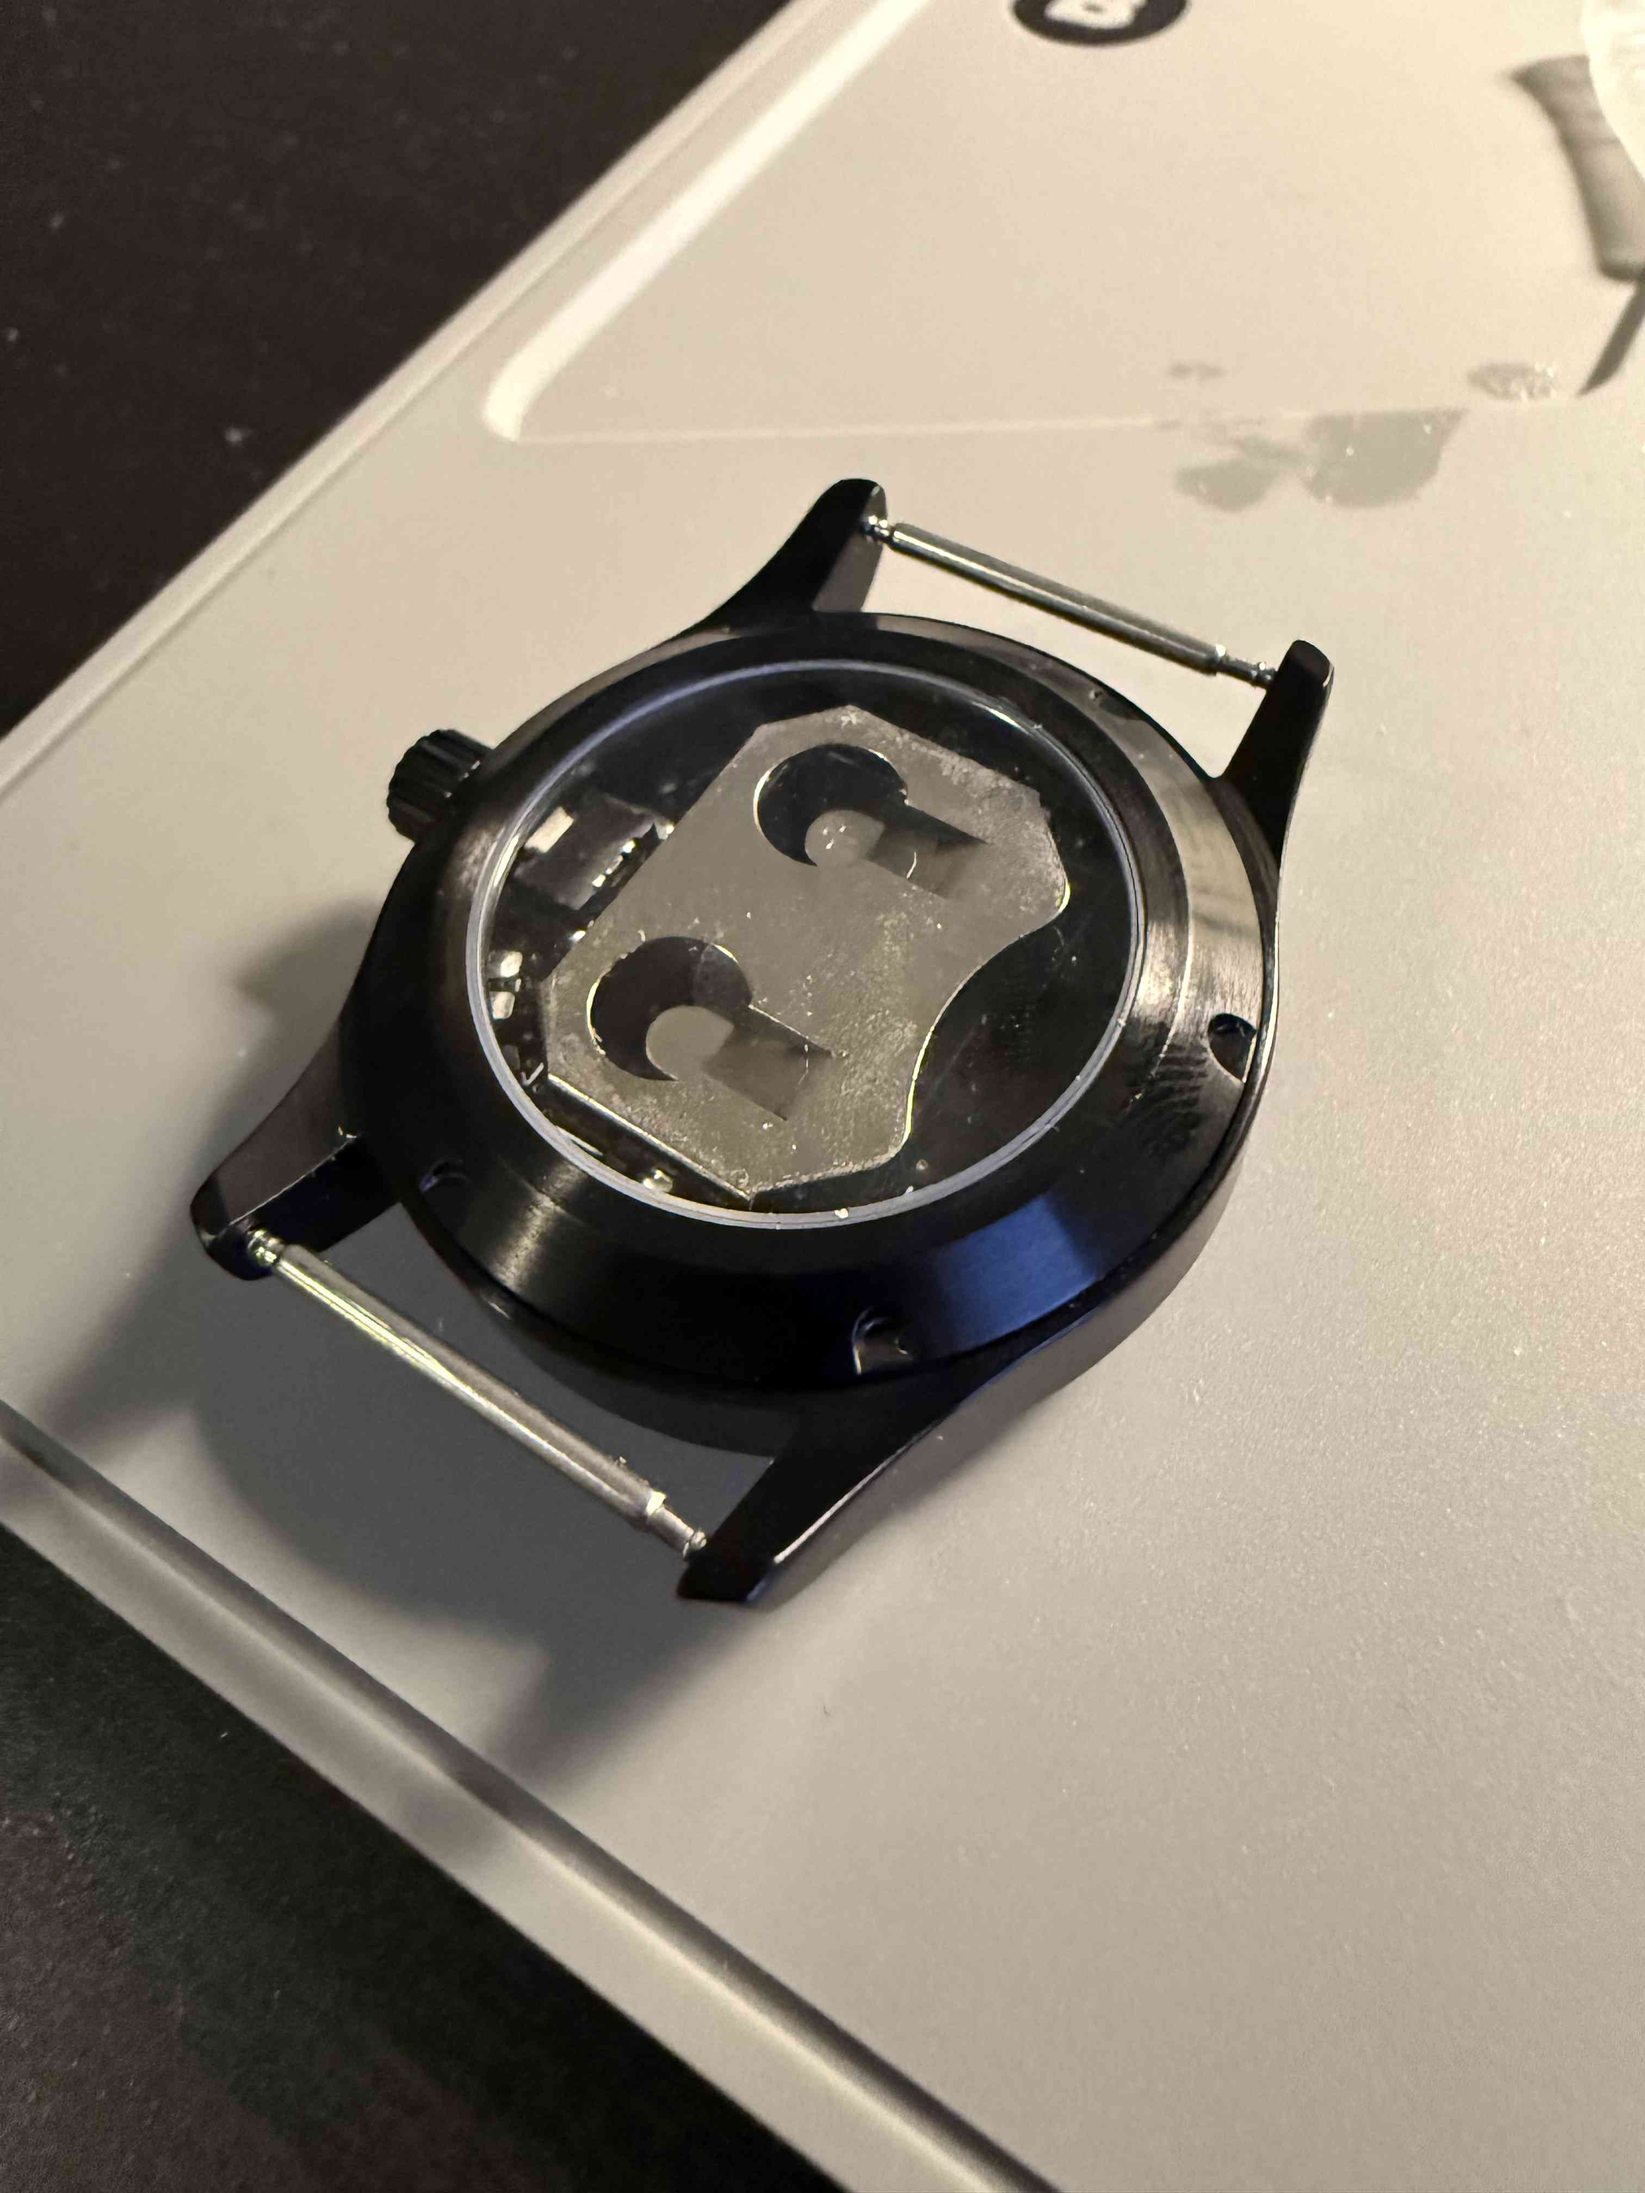
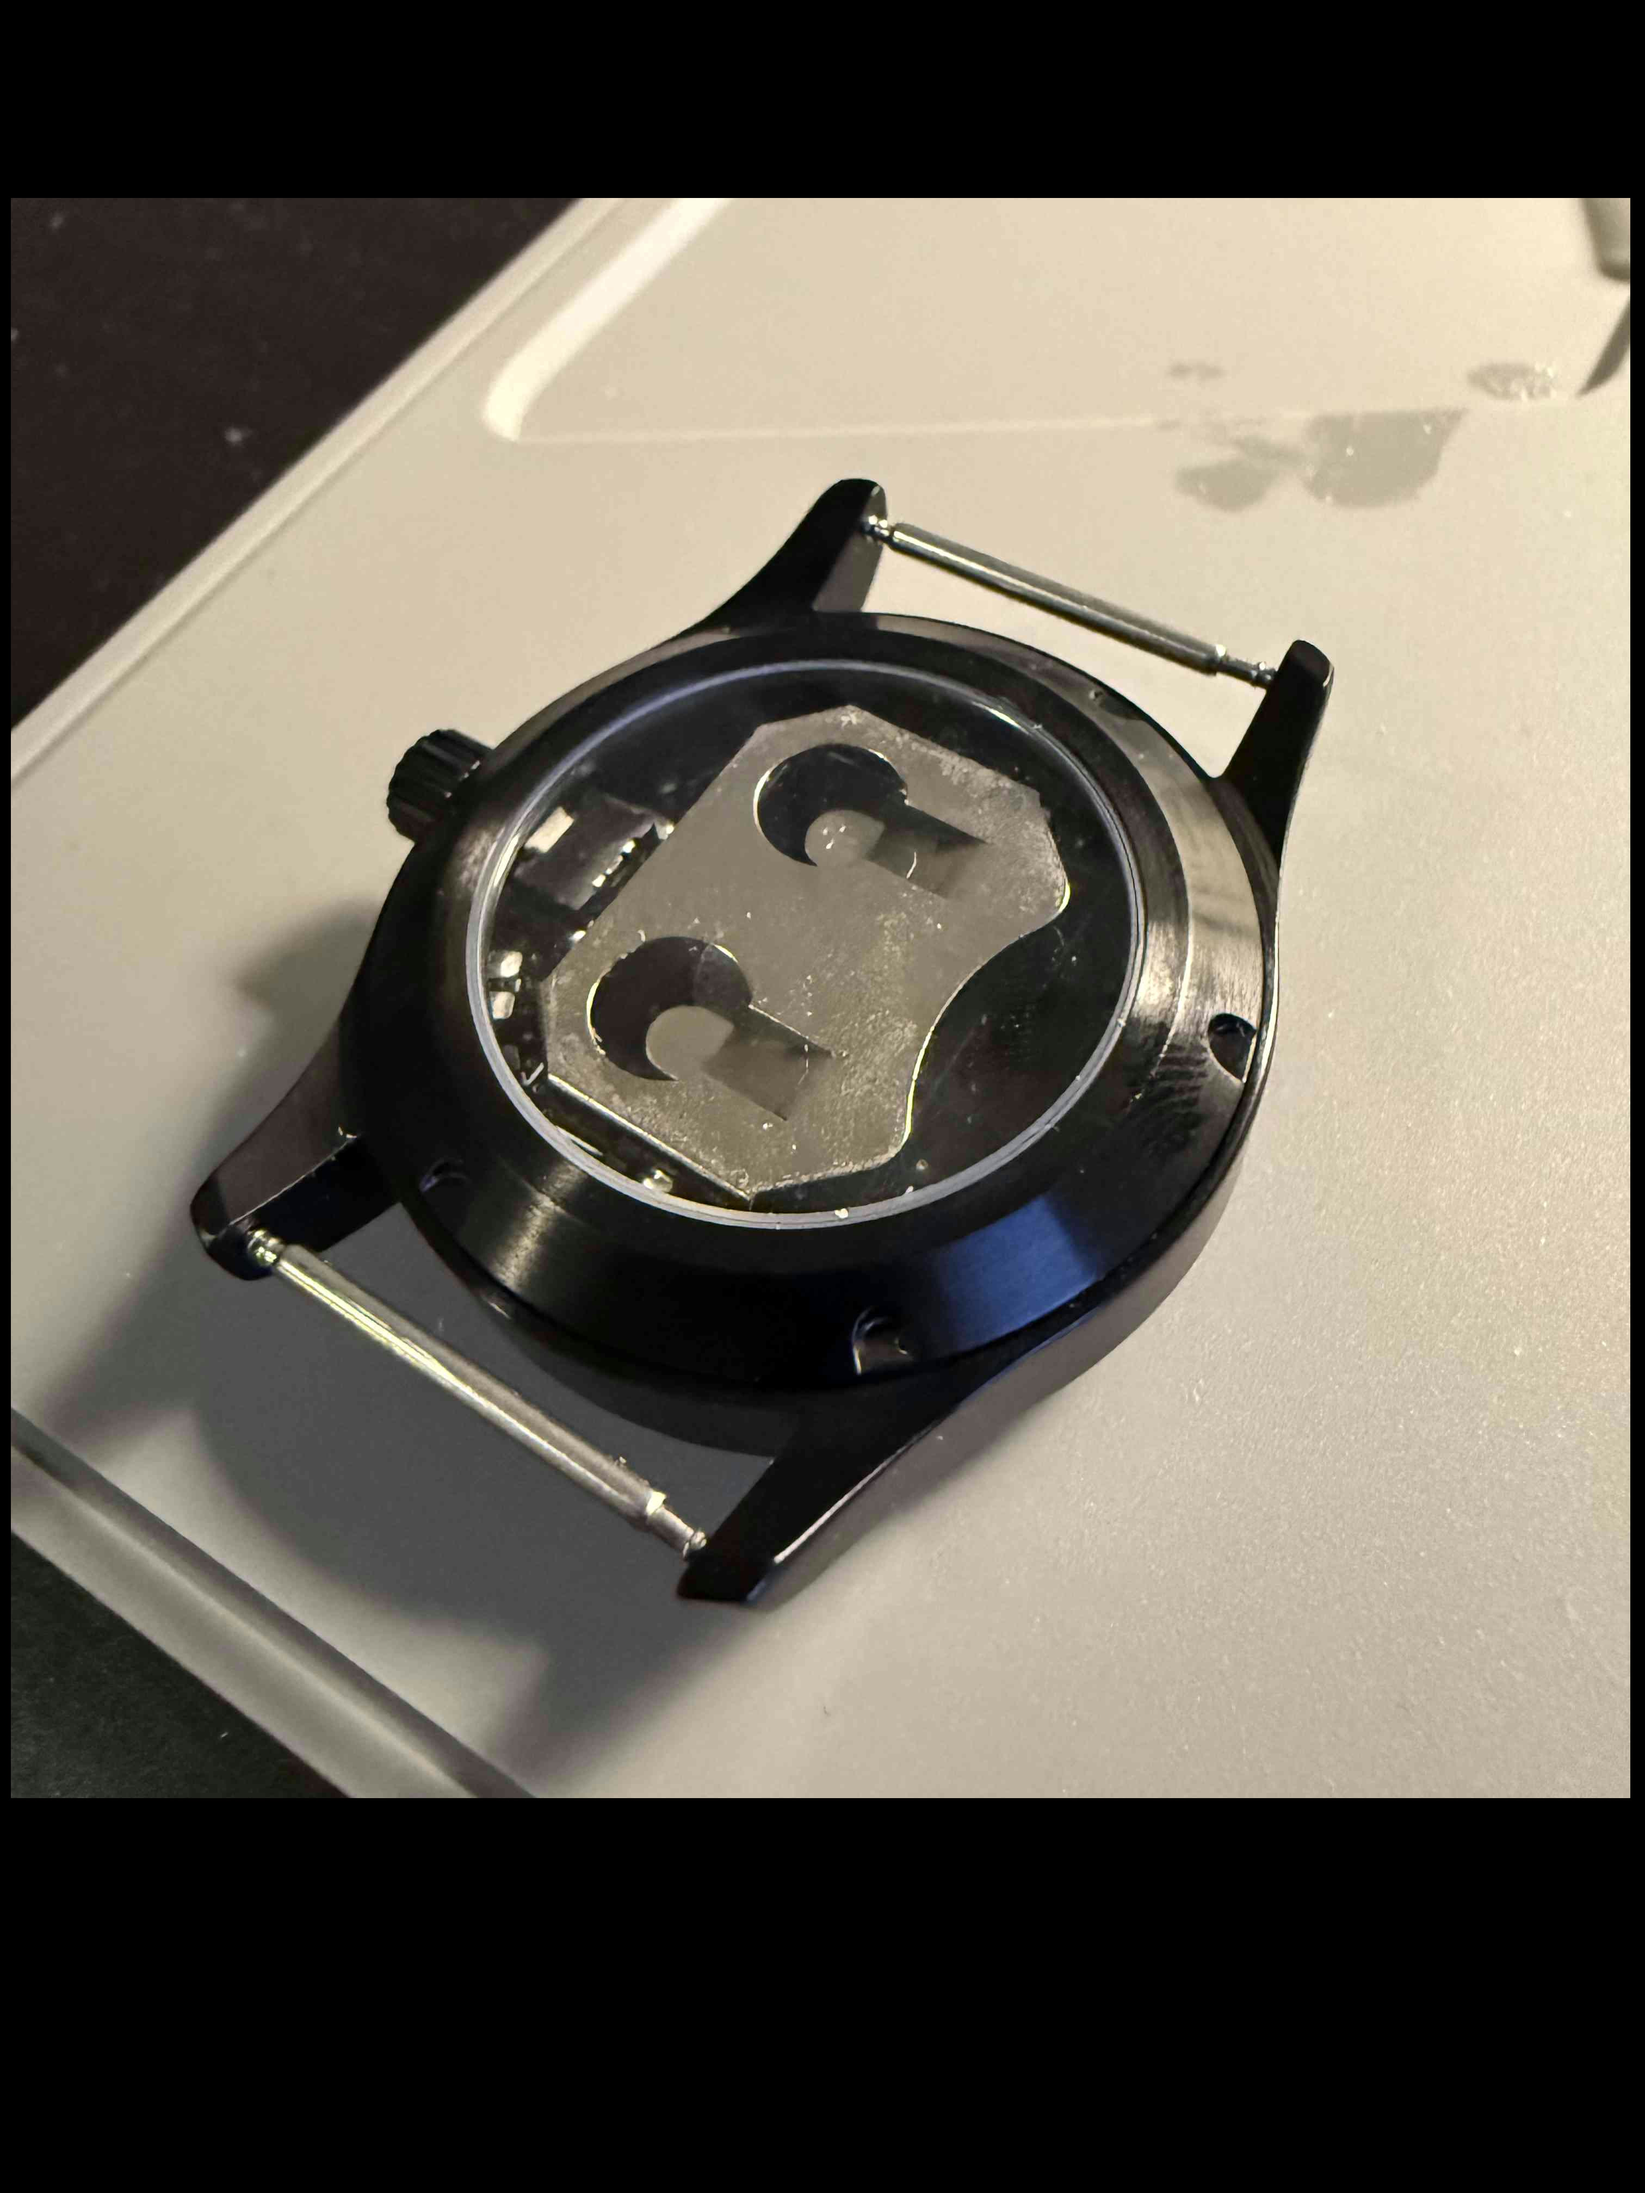
Add writeup

Changed region(s): [[0.0, 0.0, 1.0, 1.0]]

diff --git a/readme.md b/readme.md
@@ -1,2 +1,64 @@
-This is a design for a digital LED watch that fits in a standard watch case.
+# LED Watch
+![](img/complete.gif)
+
+This is a design for a digital LED watch that fits in a standard watch case. The watch shows the hours on the inner ring of 12 LEDs, and shows the minutes and seconds simultaneously on the outer ring of 60 LEDs. Time is adjustable through a switch in the crown that can be accessed with a paperclip.
+
+## Electronics
+A TI MSPM0 microcontroller controls a charlieplexed LED matrix of all 72 LEDs with 9 GPIO pins. Charlieplexing was chosen as it would otherwise take 17 GPIO pins to control the matrix with the more traditional wiring method. Timing is done via an external TCXO to minimize drift.
+
+I chose the MSPM0 because I already had the development kit, and I was familiar with the device. With a project this simple, the MSPM0's low power consumption, minimal external component requirements, and integrated voltage regulator made it an adequate choice. In a future revision I could even opt for one of its smaller packages.
+
+As for the LEDs, they are all 0402 packages with the inner ones being a yellow-green and the outer ones being a more solid green. In hindsight I would have opted for the green LEDs for everything because they have better diffusion and brightness and their package was much easier to solder. I knew when assembling that choosing the right current limiting resistors to set the maximum brightness was going to be trial and error, but I was surprised at just how much resistance I was able to put on the GPIO pins while keeping the LEDs more than bright enough for a well lit room. Each GPIO pin has 2kΩ on it, meaning the LEDs see 4kΩ each. With a 2.0V drop this means the maximum current through any given LED is about (3.3-2.0)/4000 = 300uA. Since the way the software is written means exactly one LED is on at all times, 300uA is the entire contribution of system current from the LEDs.
+
+Powering this device required careful thought. I wanted to optimize for runtime given the space constraints, and it was hard to beat a coin-cell for this purpose. I chose the CR2032 both because it and it's holder fit nicely on the back of the PCB as well as their wide availability. The CR2450 was a tempting alternative, but I opted for the lower capacity (and smaller) CR2032 because of how easy they are to find. Initially, I thought a voltage regulator was necessary for this project which would have hurt battery life and required more components to be packed onto the PCB. Luckily, the MSPM0 has a wide input voltage range of 1.62 to 3.6V, making the CR2032 suitable to power the device throughout its entire lifespan (CR2032 batteries start at about 3.0V and die at about 1.8V).
+
+## Physical Design
+The 29.6mm PCB diameter was chosen to fit in a standard watch case. The watch case I used for this project claimed to fit a 28.5 to 29.2mm watch dial. Other research indicated that 29.5mm was the typical maximum dial size for the movement designed to fit in this case. The 29.6mm diameter allowed me to slowly sand away the edge of the PCB until the fit in the case was perfectly snug. The final diameter after sanding ended up being about 29.3mm. I was also careful to leave myself some space to sand by not routing traces near the board edge.
+
+I chose a low-profile momentary switch on the back of the board to serve as an input for setting the time. This switch aligns well with the crown, making it accessible even when the watch is fully assembled. A challenge I would like to tackle in a future revision is attaching the crown to the switch so that it remains attached to the watch at all times and serves as a button itself. As of now, the crown completely unscrews from the watch making it easy to lose.
+
+6 pads are exposed for the signals required to program the microcontroller. This programming method works, but in a future revision it would be nice to find a small connector so I don't have to solder wires to the board every time I think of a way to improve the firmware.
+
+## Firmware
+The firmware for the watch is minimal. The TCXO causes an interrupt every 32kHz. On every interrupt a master 15-bit (32768 possible values) counter is incremented. Every time the counter rolls over, the seconds LED updates as well as the minutes and hours if necessary. Between rollovers, the master counter serves as a way to define which of the three LEDs is on in the matrix. Charlieplexing relies on persistence of vision because only one LED can be on at one time. To do this, I look at the lower 7 bits (128 values) of the counter and whether those lower bits are in one of three ranges dictates which of the three possible LEDs is on (in fact, to compensate for my hour LEDs being dimmer, I give them more on-time by making their share of these 128 values larger than the minute/second LEDs). I choose 7 bits because choosing a larger number slows down the switching between the three LEDs enough to make flickering visible on my phone camera. On a 32kHz clock, to cycle through all 128 values takes about 3.9ms. A camera recording at 120 FPS captures a frame every 8.3ms. Becuase our period is less than the camera's, we avoid the flicker by guaranteeing all three LEDs are on at some point during each frame's exposure.
+
+The only other part of the firmware is input management. The crown button allows the user to set the time. Pressing the button for less than a second will increment the hour, minute, or second. Pressing the button for more than a second will cycle between setting the hour, minute, or second.
+
+When the microcontroller is not processing interrupts related to either keeping the time or setting the time, it is in standby mode to minimize power consumption.
+
+## Images
+
 ![watch_3d](img/watch_3d.jpg)
+
+KiCad 3D Model
+
+![](img/assembly.jpg)
+
+Partially assembled. Getting the inner LEDs down was tricky as unlike the package for the outer ones, the pads are only exposed on the bottom and not on the sides.
+
+![](img/front_in_case.jpg)
+
+Paritally assembled for a test fit in the case. I was surprise at how well it fit first try. The components had ample clearance between them and the glass. The PCB rests on a lip that provides this spacing.
+
+![](img/back_in_case.jpg)
+
+Back of the case where the battery holder and switch can be seen. Getting a watch case with a clear back was definitely the correct decision :-)
+
+![](img/programming.jpg)
+
+Programming with an MSPM0 development board. These wires are pretty annoying, but they work!
+
+![](img/watch_comparison.jpg)
+
+Size comparison with my watch.
+
+![](img/front_assembled.jpg)
+
+Fully assembled. It's 1:12:27!
+
+![](img/back_assembled.jpg)
+
+Fully assembled (back). Battery installed.
+
+## Videos
+Videos with the watch fully working are in the img/ directory. GitHub does not currently support embedding videos over 10MB in readmes.
